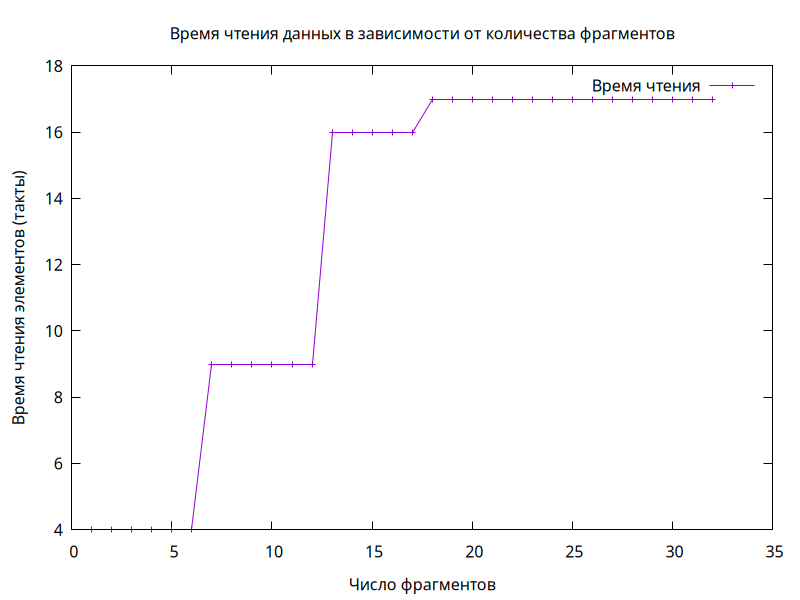
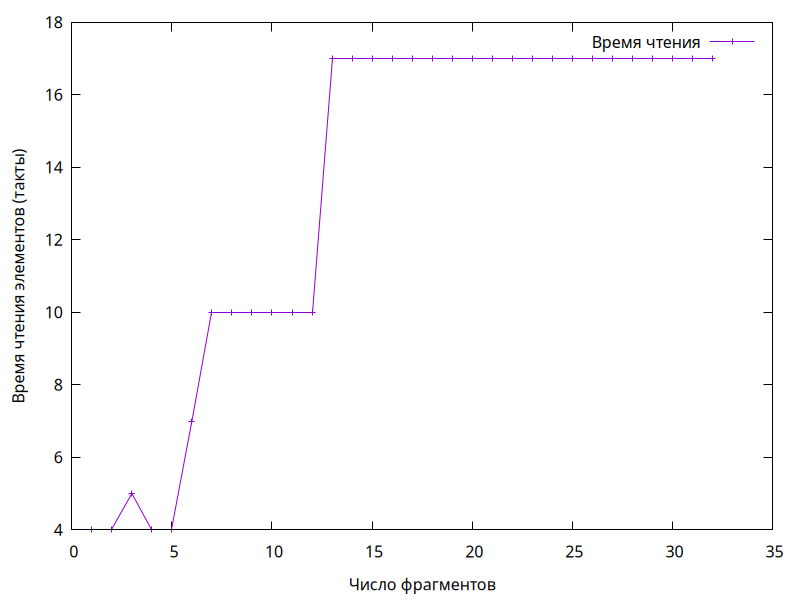
correct version

diff --git a/lab9/main.cpp b/lab9/main.cpp
@@ -10,27 +10,27 @@
 
 #define RUN_TIMES 4  // количество прогонов для замера
 
-int N = 200000000;  // размер массива
-
 // Функция инициализации массива с фрагментированным отступом
-void InitArray(unsigned int *array, unsigned int fragment_count, size_t offset, size_t size){
-    int i, j;
+int* InitArray(int fragment_count, size_t offset, size_t size){
+    int array_size = offset * fragment_count;
+    int* array = new int[array_size];
 
-    for(i = 0; i < size; i++) {
-        // std::cout << "i = " << i << std::endl;
-        for(j = 1; j < fragment_count; j++) {
-            array[i + (j - 1) * offset] = i + j * offset;
-            // std::cout << "array[" << i + (j - 1) * offset << "] = " << i + j * offset << std::endl;
+    for(int i = 0; i < size / fragment_count; ++i) {
+        for(int j = 0; j < fragment_count - 1; ++j) {
+            array[i + j * offset] = i + (j + 1) * offset;
         }
-        array[i + (j - 1) * offset] = i + 1;
-        // std::cout << "array[" << i + (j - 1) * offset << "] = " << i + 1 << std::endl;
+
+        array[i + (fragment_count - 1) * offset] = i + 1;
     }
 
-    array[i - 1 + (j - 1) * offset] = 0;
+    // array[size - 1] = 0;
+    array[size / fragment_count - 1 + (fragment_count - 1) * offset] = 0;
+
+    return array;
 }
 
 // Функция для замера времени обхода массива
-unsigned long long RunArray(unsigned int *array) {
+unsigned long long RunArray(int *array, int size) {
     unsigned long long start, end;
     unsigned long long min_time = ULLONG_MAX;
 
@@ -38,7 +38,7 @@ unsigned long long RunArray(unsigned int *array) {
         start = __rdtsc();  // начало замера времени
 
         // Обход массива
-        for(volatile size_t k = 0, i = 0; i < N; i++) {
+        for(volatile size_t k = 0, i = 0; i < size; i++) {
             k = array[k];
         }
 
@@ -46,53 +46,30 @@ unsigned long long RunArray(unsigned int *array) {
         min_time = std::min(min_time, end - start);
     }
 
-    return min_time;
+    return min_time / size;
 }
 
 // подсчет времени для различных фрагментов
-void CountTime(unsigned int *array, unsigned int fragment_count, int offset, int size, std::ofstream& file) {
-    InitArray(array, fragment_count, offset, size);
-    unsigned long long time = RunArray(array) / N;
+void CountTime(int fragment_count, int offset, int size, std::ofstream& file) {
+    int* array = InitArray(fragment_count, offset, size);
+    unsigned long long time = RunArray(array, size);
 
     file << fragment_count << " " << time << std::endl;
 }
 
 int main() {
-    // память для массива
-    auto *array = new unsigned int[N];
+    int offset = 16 * 1024 * 1024 / sizeof(int); // шаг(смещение) между фрагментами - 16МБ по условию задачи
+    int array_size = L1 / sizeof(int); // размер массива для L1d кэша
 
-    if (array == nullptr) {
-        std::cerr << "Ошибка: не удалось выделить память" << std::endl;
-        delete[] array;
-        return 1;
-    }
+    std::ofstream l1_file("l1.txt");
 
-    std::ofstream l1File("l1.txt");
-    // std::ofstream l2File("l2.txt");
-    // std::ofstream l3File("l3.txt");
-
-    if (!l1File.is_open()) {
-        std::cerr << "Ошибка: не удалось открыть файл" << std::endl;
-        delete[] array;
-        return 1;
-    }
-
-    unsigned int offsets[] = {L1 * 2, L2 * 2}; // шаги(смещения) между фрагментами
-    unsigned int block_size[] = {L1 / sizeof(int), L2 / sizeof(int)};
-
-    std::ofstream* files[] = {&l1File}; // массив указателей на файлы с результатами
-
-    // перебираем фрагменты для разных кешей
-    // for (int i = 0; i < 3; ++i) {
     for (int fragment_count = 1; fragment_count <= 32; ++fragment_count) {
-        CountTime(array, fragment_count, offsets[0], block_size[0], *files[0]);
+        CountTime(fragment_count, offset, array_size, l1_file);
     }
 
     std::cout << "Завершил перебор фрагментов" << std::endl;
 
-    l1File.close();
-    // l2File.close();
+    l1_file.close();
 
-    delete[] array;
     return 0;
 }
